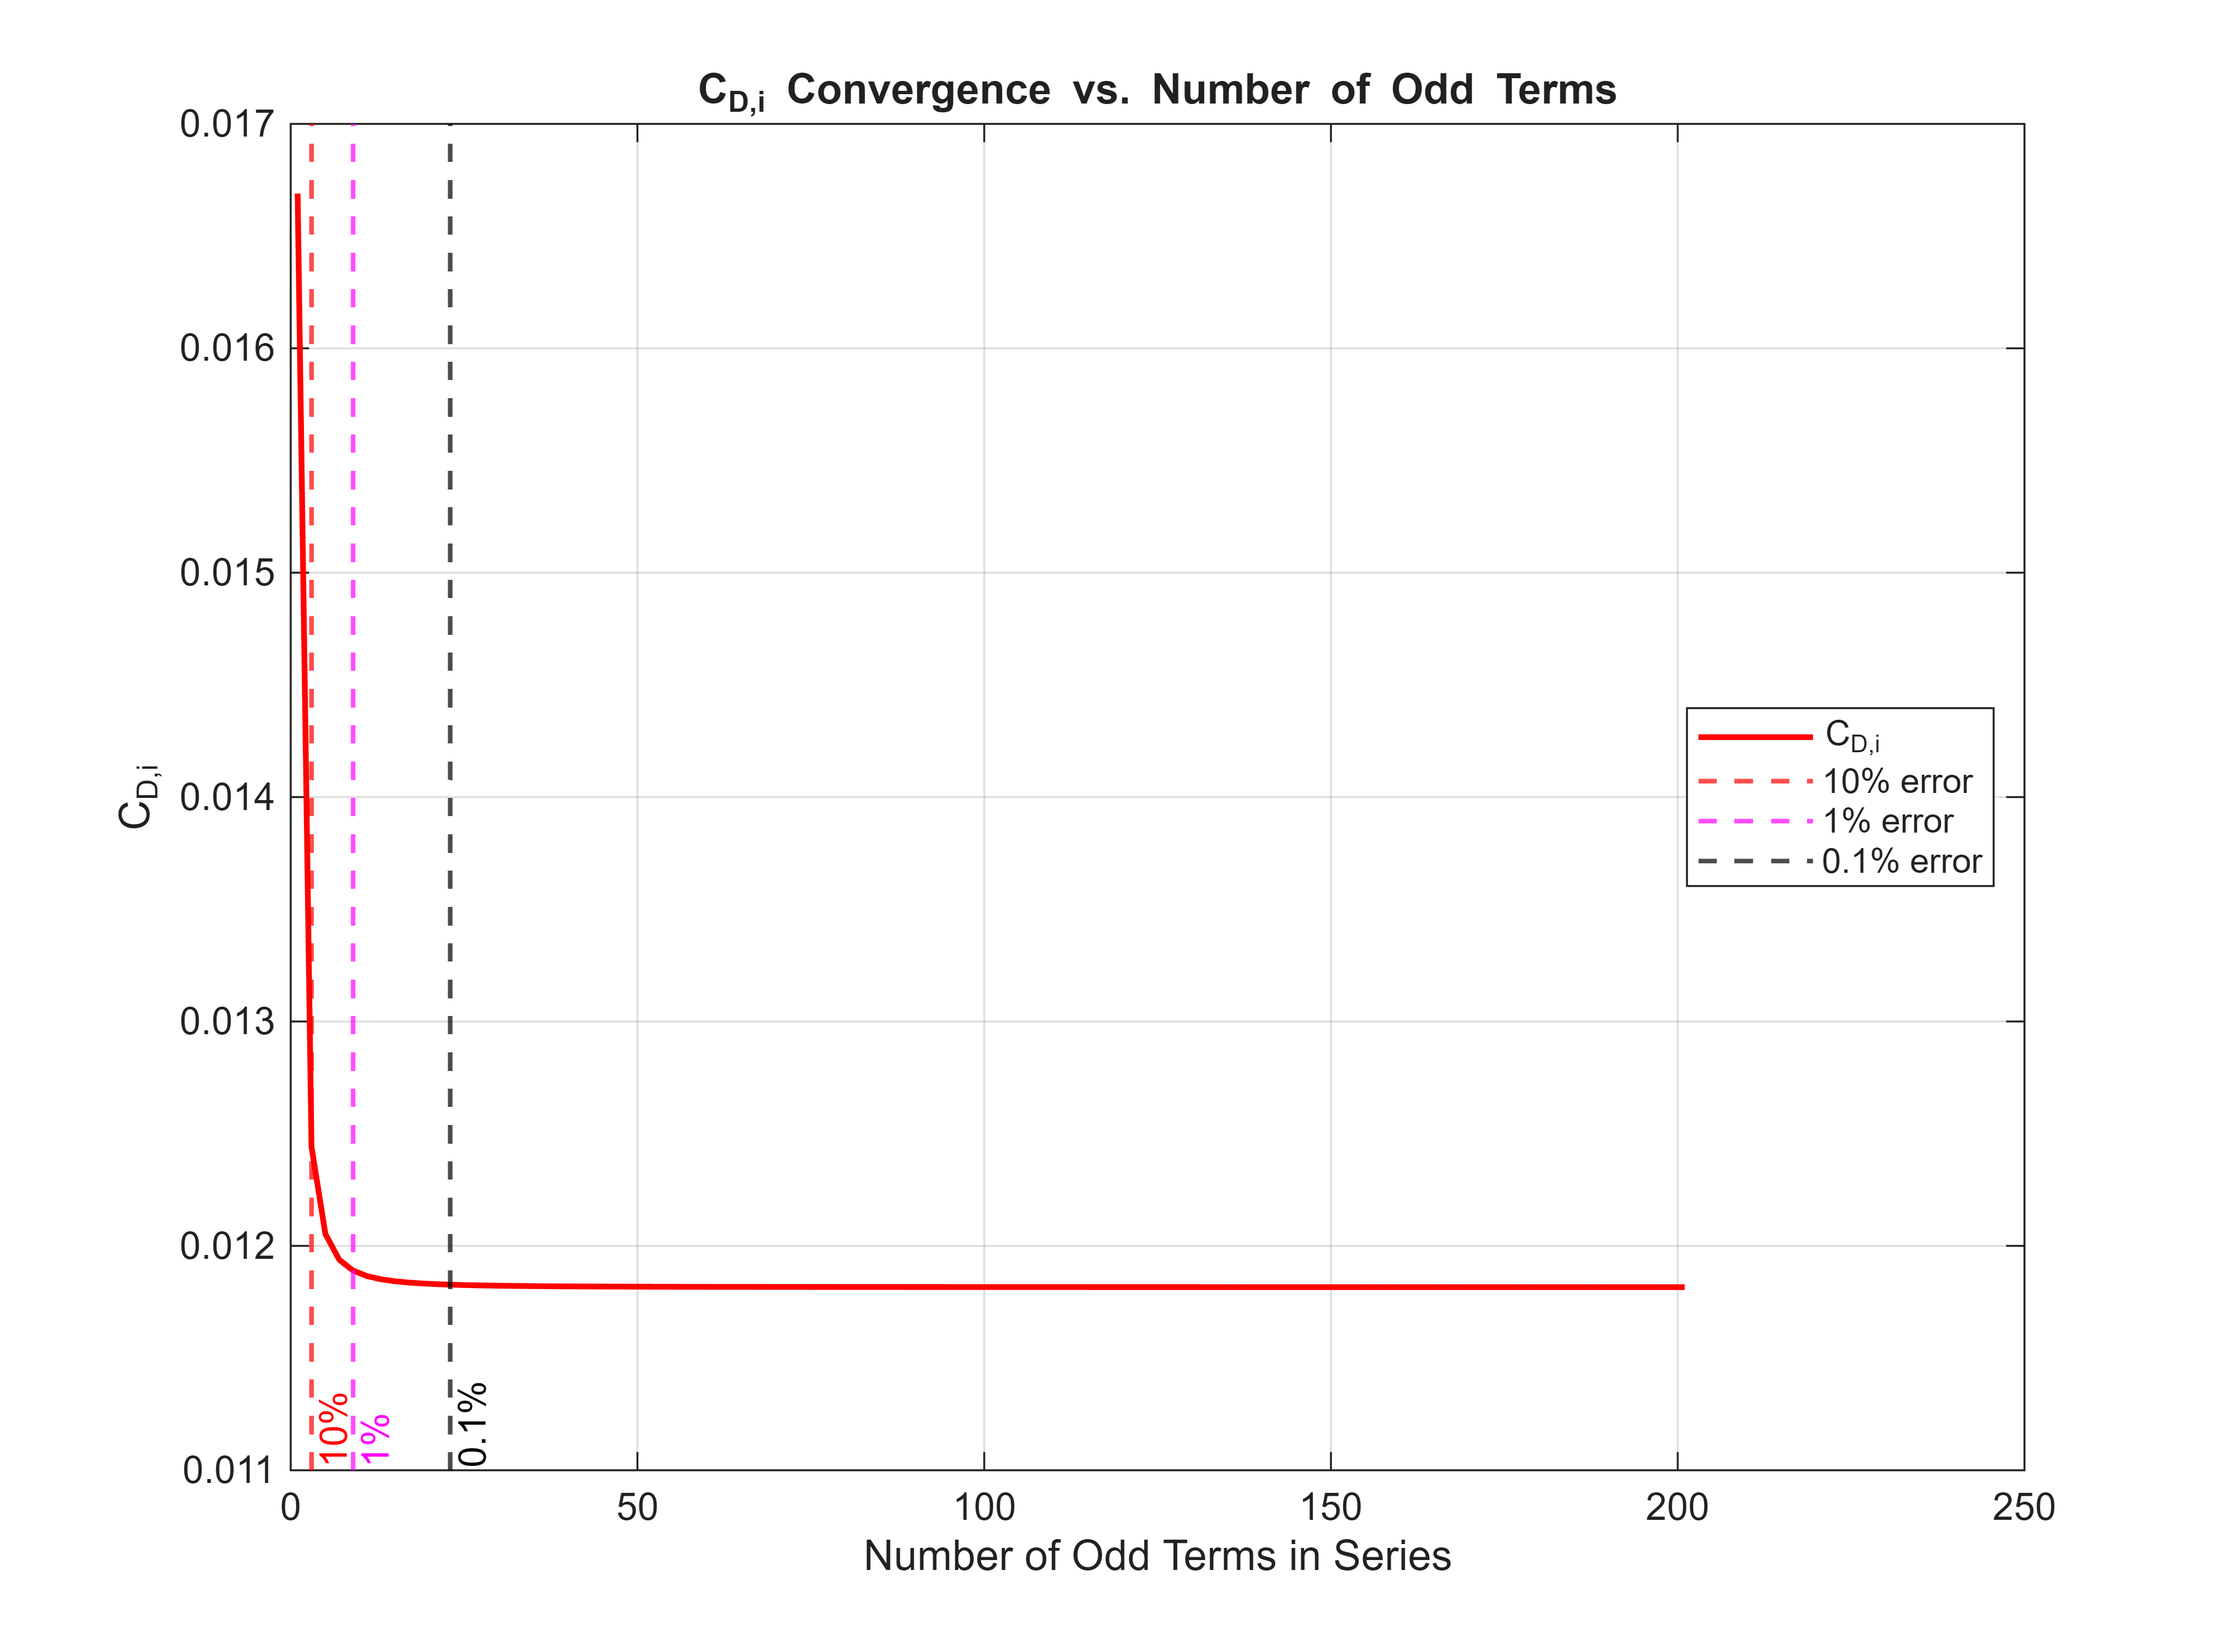
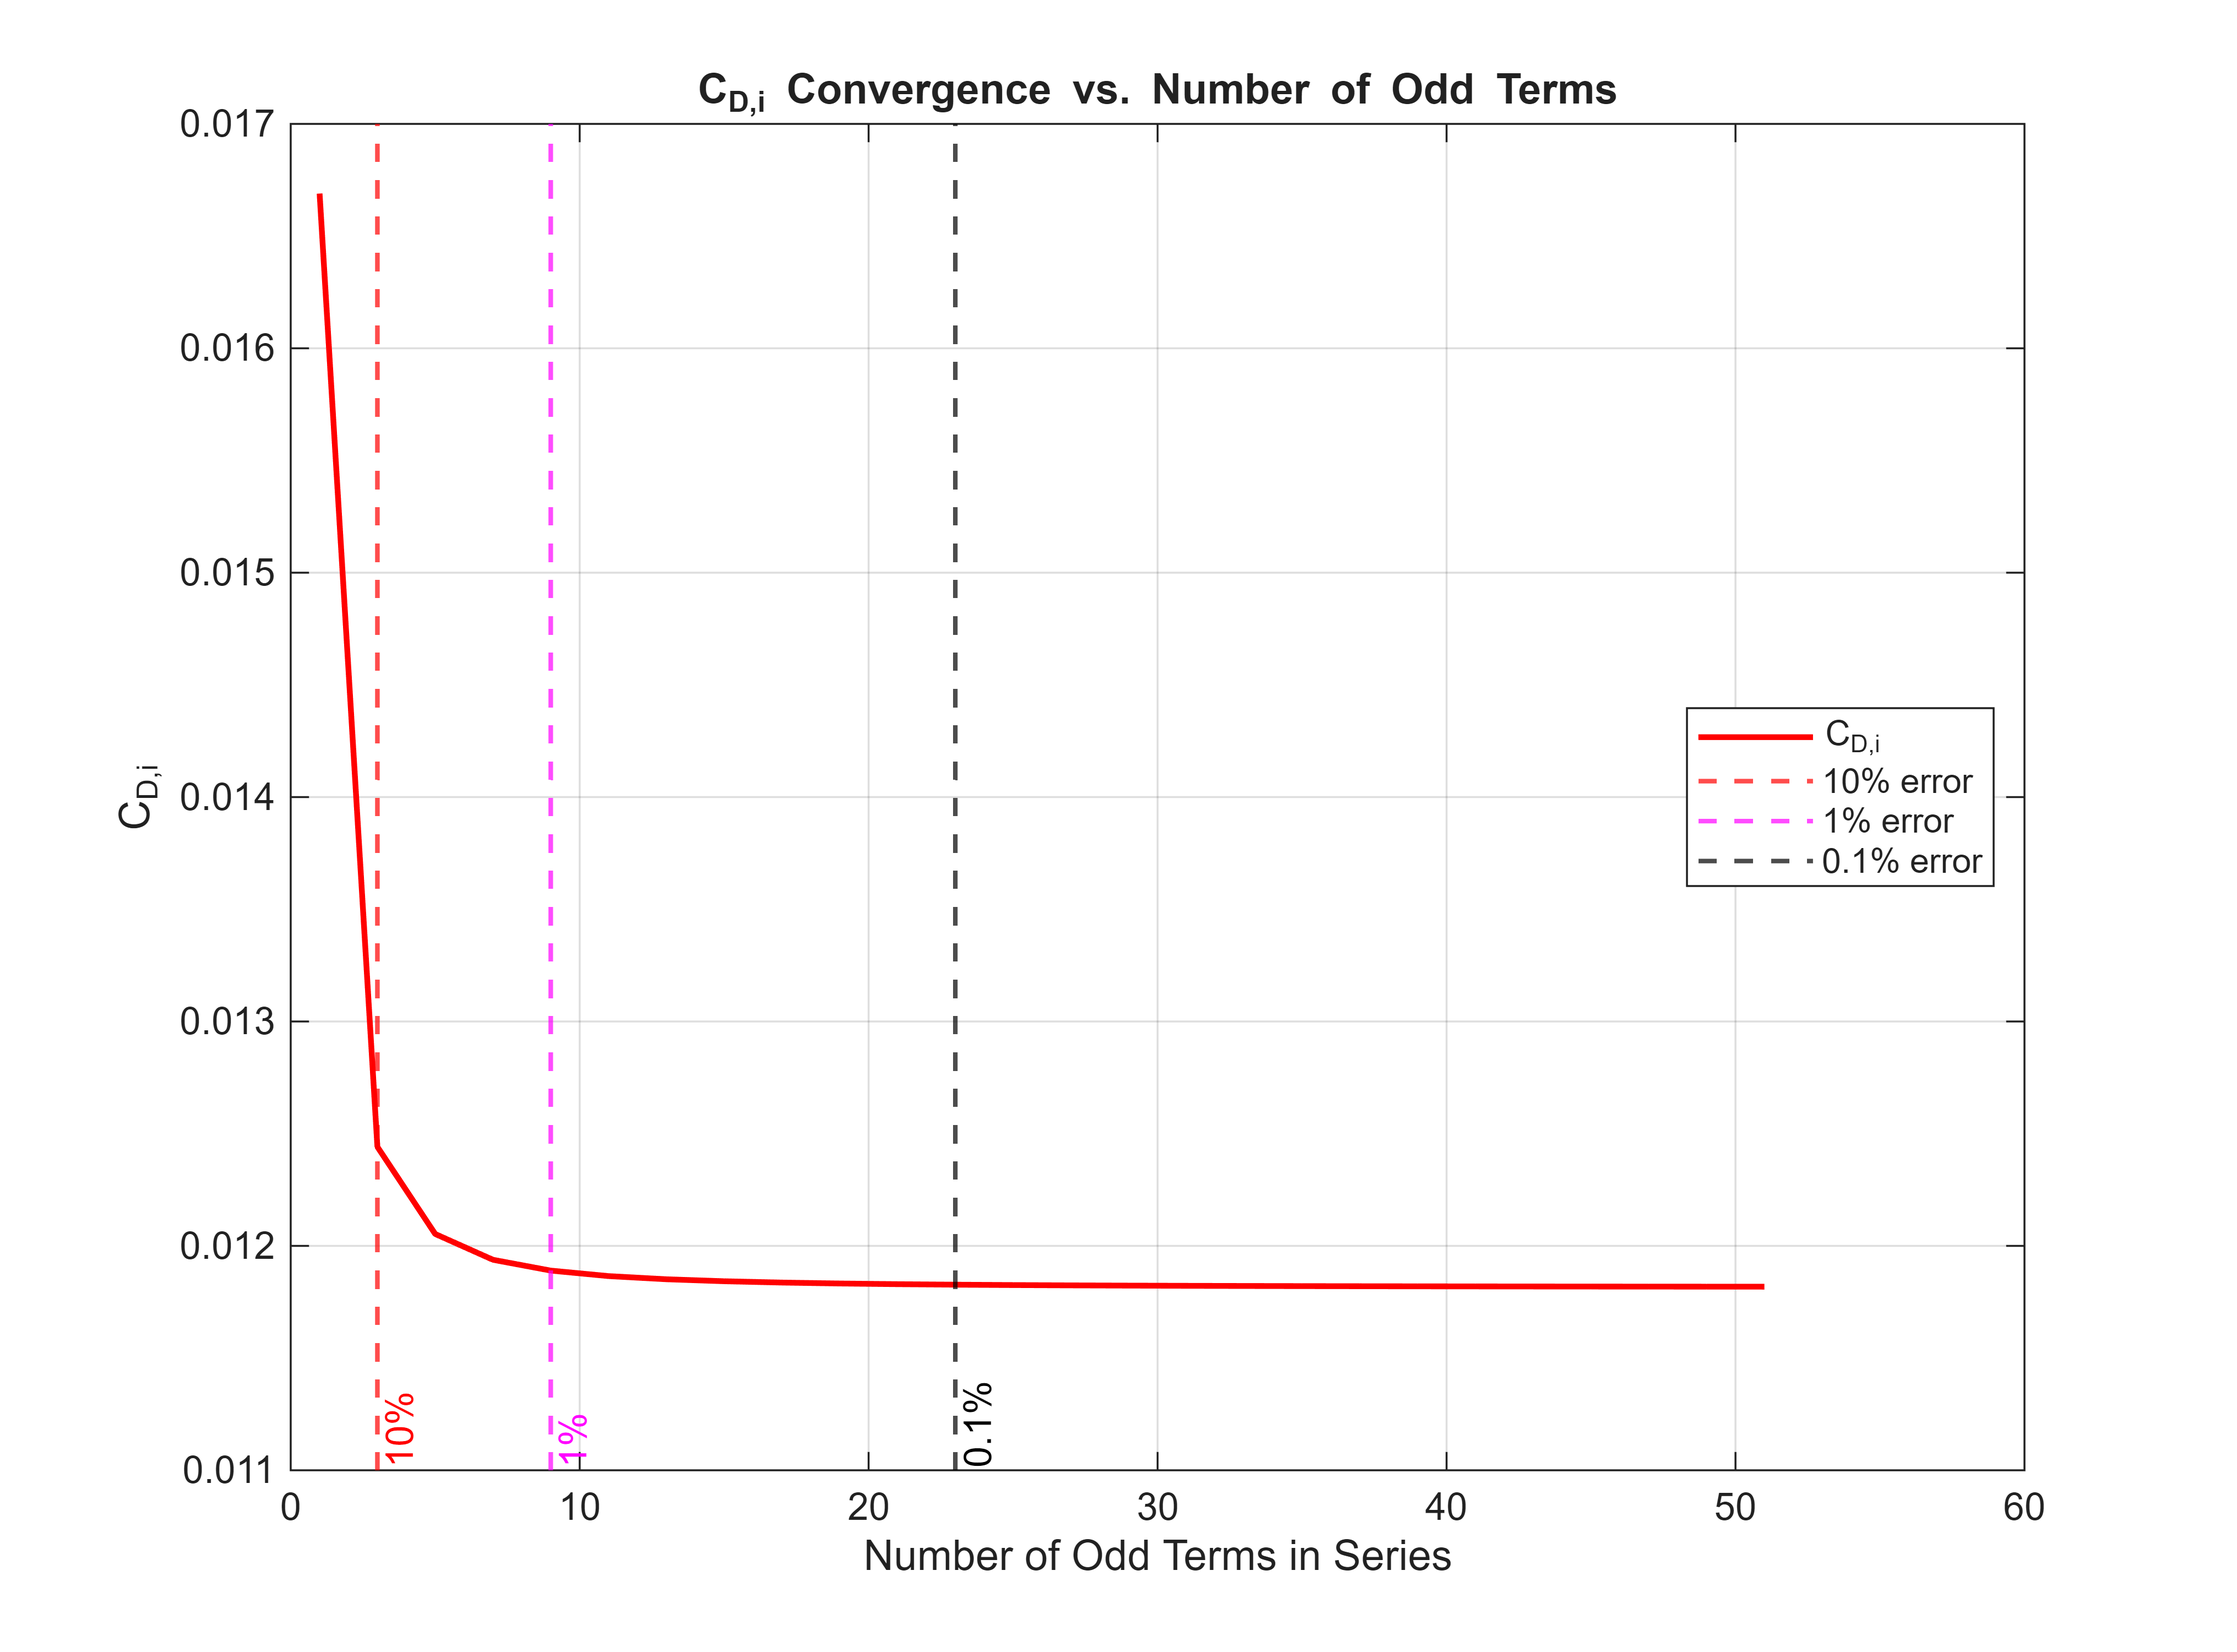
fixed convergence study method and plots

diff --git a/Main_Lab3_Parts1and2.m b/Main_Lab3_Parts1and2.m
@@ -528,9 +528,9 @@ fprintf('NACA 0012 (tip):  a0 = %.4f /rad,  aL0 = %.4f deg\n', a0_t, aero_t);
 
 
 % Convergence Study
-%  Sweep odd number of terms, record CL and CDi
-
-N_terms_vec = 1:2:201;   % odd terms: 1,3,5,...,201 --> note that this value is picked arbitrarily but simply selected at a high and odd value to ensure high accuracy
+N_accurate = 201; % pick high term to calculate accurrate vals to compare 
+N_terms_vec = 1:2:51;   % N vals to test
+[~, CL_ref, CDi_ref, ~] = PLLT(b, a0_t, a0_r, c_t, c_r, aero_t, aero_r, (geo_t+alpha_wing), (geo_r + alpha_wing), N_accurate);
 
 % Preallocate CL and CDi vectors for the convergence study
 CL_conv  = zeros(size(N_terms_vec));
@@ -543,9 +543,6 @@ for idx = 1:length(N_terms_vec)
                                                  aero_t, aero_r, (geo_t+alpha_wing), (geo_r + alpha_wing), N_odd);
 end
 
-% Use highest-term value as reference
-CL_ref  = CL_conv(end);
-CDi_ref = CDi_conv(end);
 
 % Relative error vs reference --> converted to percentages by multiplying by 100 [%]
 err_CL  = abs((CL_conv  - CL_ref) / CL_ref)  * 100;
